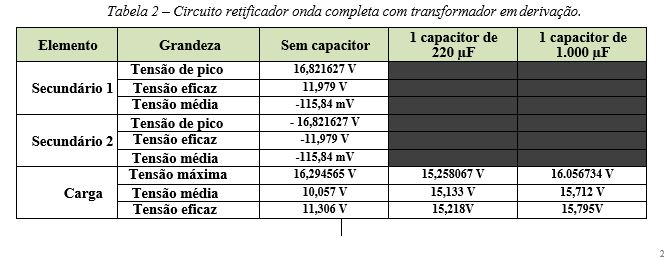
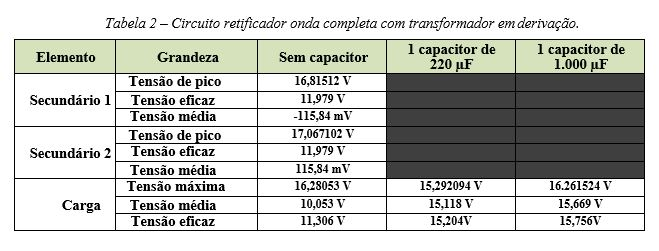
parte2

diff --git a/Relatório 2/ondacompleta.md b/Relatório 2/ondacompleta.md
@@ -47,17 +47,14 @@ fonte: Internet.
 
 ### Resultados.
 
- ### Tensão de pico, eficaz e média retificador com derivação no secundário 1 do transformador.
+ ### Tensão de pico, eficaz e média retificador com derivação no secundário 1 e 2 do transformador.
 
-![secundário 1](/Imagens/parte2/secundario1.JPG)
+![secundário 1](/Imagens/parte2/tensaocomderivacaosecundario1_2.JPG)
 
-### Tensão de pico, eficaz e média retificador com derivação no secundário 2 do transformador.
-
-![secundário 2](/Imagens/parte2/secundario2.JPG)
 
 ### Tensão de pico, eficaz e média na  carga retificador com derivação.
 
-![secundário 2](/Imagens/parte2/tensaocomderivacaocarga.JPG)
+![secundário 2](/Imagens/parte2/tensaocomderivacaocarga_1.JPG)
 
 
 ### tensão de pico, eficaz e média na carga com capacitor de 220u.
@@ -70,4 +67,4 @@ fonte: Internet.
 
 ![tensaomaxeficmedcarga220](/Imagens/parte2/tabelacomderivacao.JPG)
 
-Obs. os valores de tensão no secundário 1 e 2 foram anotados para o mesmo tempo, desta forma eles possuem valores iguais com sinais diferentes.
+Obs. os valores de tensão no secundário 1 e 2 foram anotados para tempos diferentes, desta forma eles possuem valores relativamente distintos.
